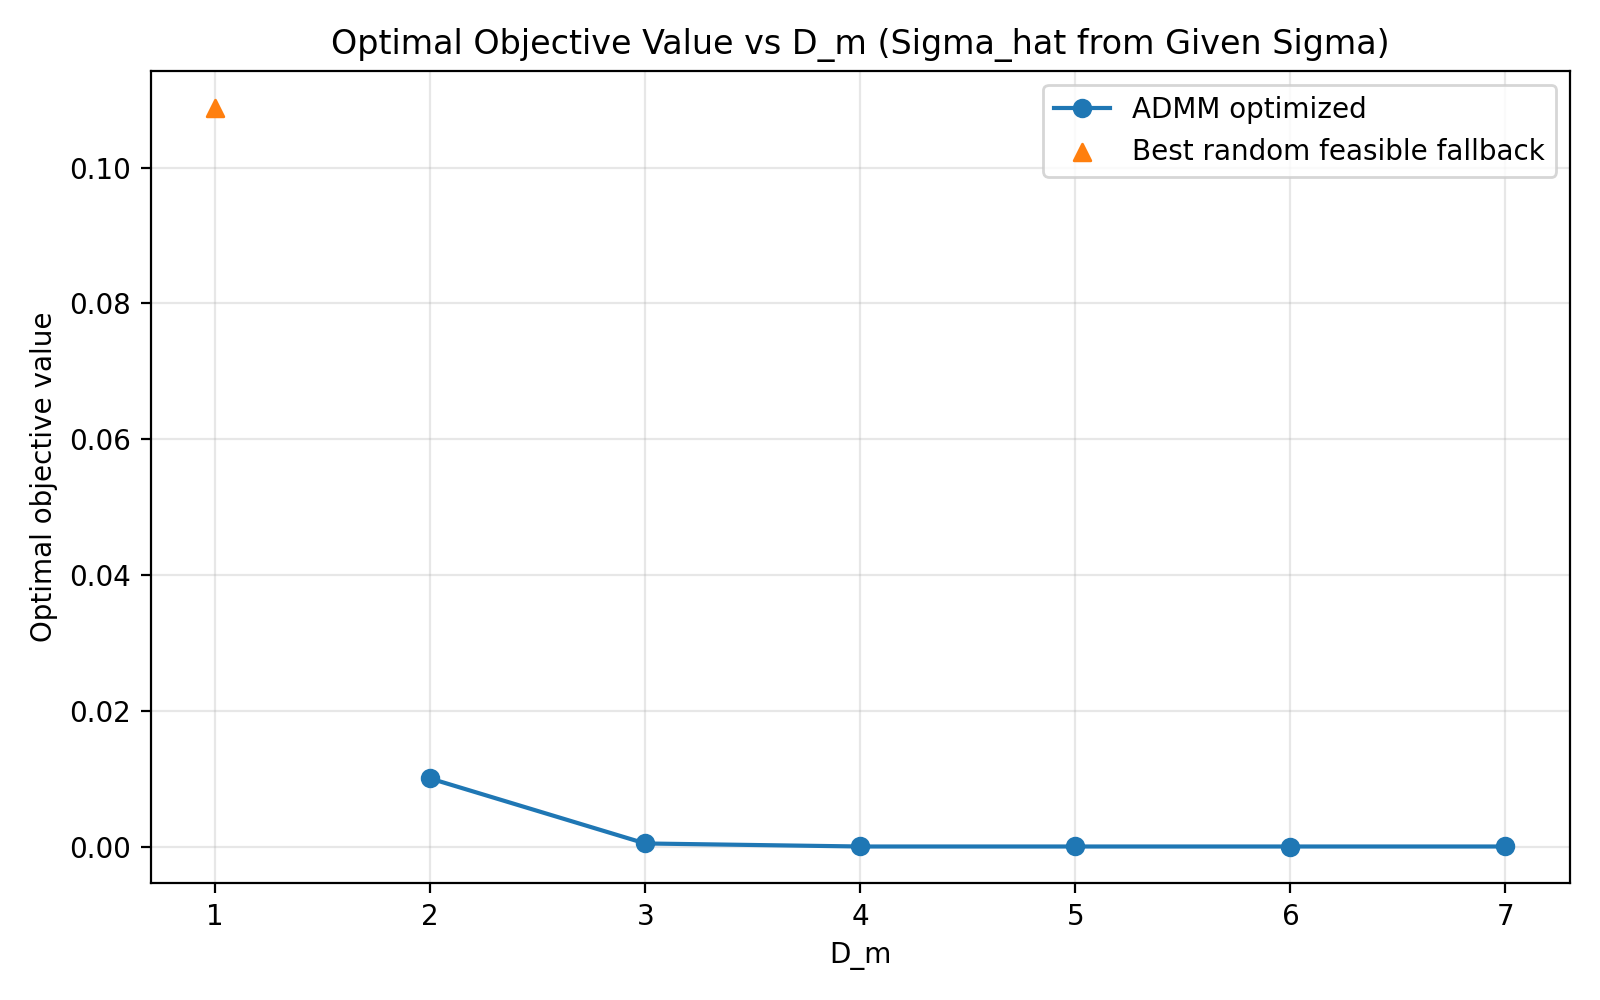
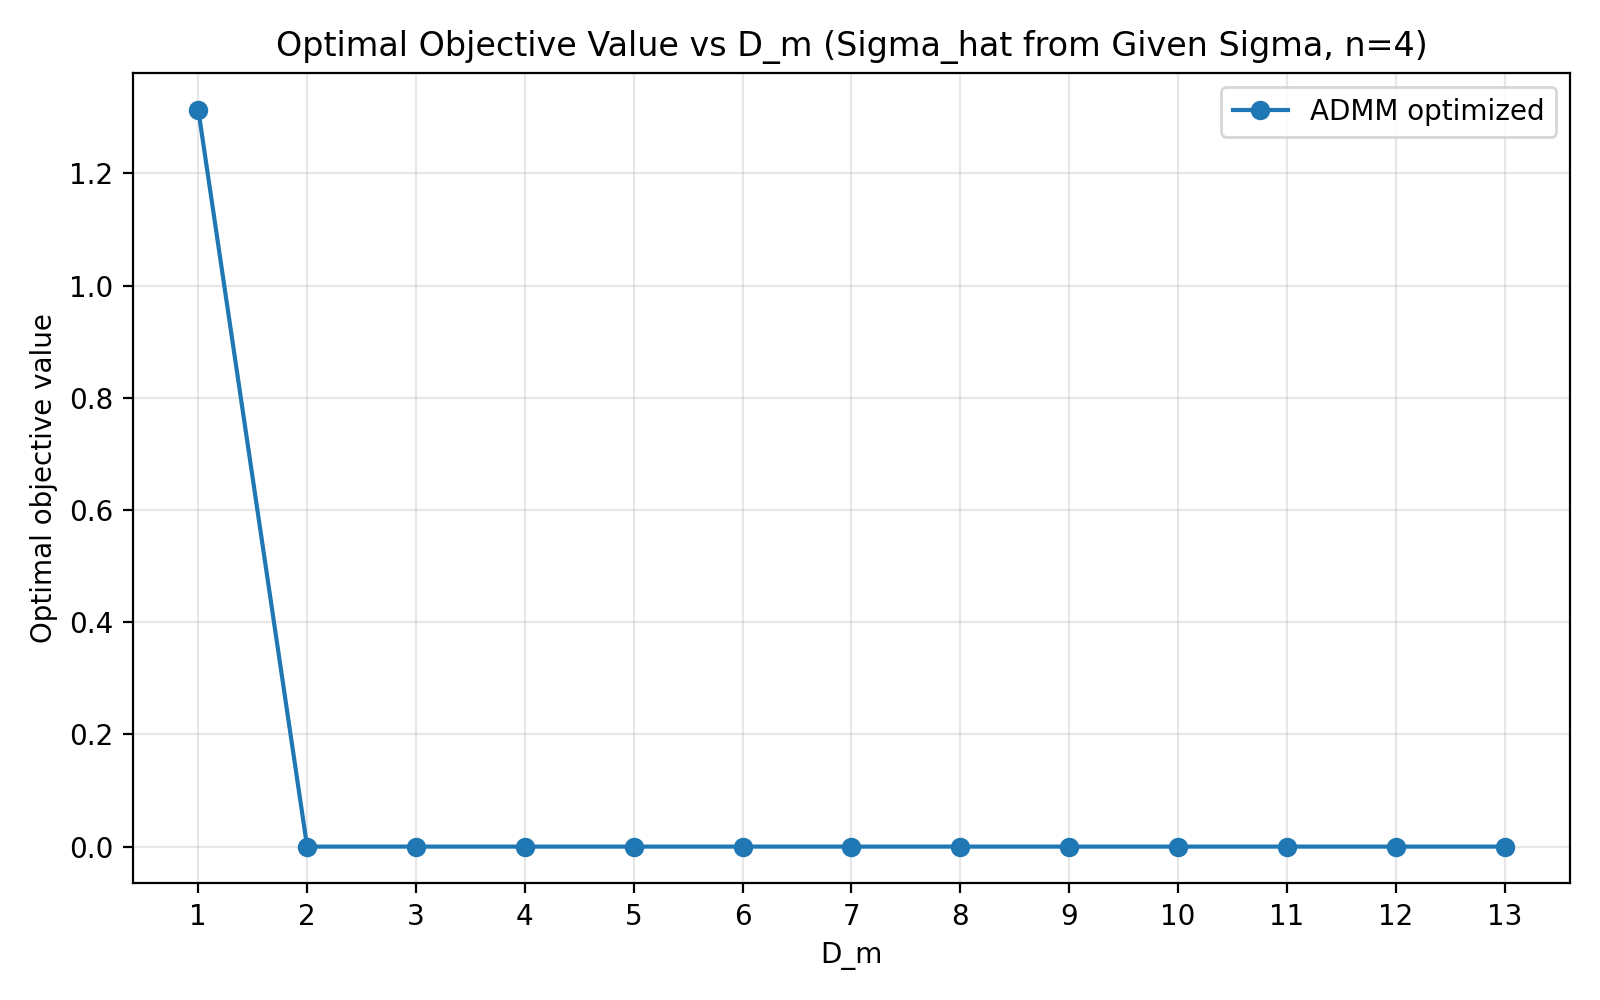
Dimension 4 added

diff --git a/plot_objective_vs_dm.py b/plot_objective_vs_dm.py
@@ -180,6 +180,35 @@ def penalty_values_for_d_m(d_m_values):
     return np.sqrt(d_m_values)
 
 
+def output_path_for_dimension(output_path, n, add_suffix):
+    if not add_suffix:
+        return output_path
+
+    stem, dot, extension = output_path.rpartition(".")
+    if not dot:
+        return f"{output_path}_n{n}"
+    return f"{stem}_n{n}.{extension}"
+
+
+def lambda_star_mask_for_dimension(n):
+    if n == 3:
+        return np.array([
+            [1, 1, 0],
+            [0, 1, 1],
+            [0, 0, 1],
+        ], dtype=bool)
+
+    if n == 4:
+        return np.array([
+            [1, 0, 0, 1],
+            [0, 1, 0, 1],
+            [0, 0, 1, 1],
+            [0, 0, 0, 1],
+        ], dtype=bool)
+
+    raise ValueError(f"No Lambda_star mask is defined for dimension {n}.")
+
+
 def plot_curve(
     x_values,
     y_values,
@@ -257,18 +286,19 @@ def parse_args():
         default=500,
         help="Number of random feasible candidates to try when ADMM fails for a D_m.",
     )
+    parser.add_argument(
+        "--lambda-star-dims",
+        type=int,
+        nargs="+",
+        default=[3, 4],
+        choices=[3, 4],
+        help="Dimensions of Lambda_star to test.",
+    )
     return parser.parse_args()
 
 
-if __name__ == "__main__":
-    args = parse_args()
-
-    n = 3
-    Lambda_star_mask = np.array([
-        [1, 0, 1],
-        [0, 1, 1],
-        [0, 0, 1],
-    ], dtype=bool)
+def run_experiment(args, n, add_output_suffix):
+    Lambda_star_mask = lambda_star_mask_for_dimension(n)
     Lambda_star = sample_lambda_star_from_mask(
         Lambda_star_mask,
         target_fro_norm=0.9,
@@ -282,6 +312,23 @@ if __name__ == "__main__":
 
     Sigma_given = covariance_from_lambda_star(Lambda_star, omega_star)
 
+    given_output = output_path_for_dimension(
+        args.given_output,
+        n,
+        add_output_suffix,
+    )
+    sigma_hat_output = output_path_for_dimension(
+        args.sigma_hat_output,
+        n,
+        add_output_suffix,
+    )
+    sigma_hat_penalty_output = output_path_for_dimension(
+        args.sigma_hat_penalty_output,
+        n,
+        add_output_suffix,
+    )
+
+    print(f"\n=== Lambda_star dimension n = {n} ===")
     print("Lambda_star:")
     print(Lambda_star)
     print(f"Frobenius norm of Lambda_star: {lambda_star_fro:.6f}")
@@ -305,14 +352,14 @@ if __name__ == "__main__":
         plot_curve(
             d_m_values,
             objective_values,
-            args.given_output,
-            title="Optimal Objective Value vs D_m (Given Sigma)",
+            given_output,
+            title=f"Optimal Objective Value vs D_m (Given Sigma, n={n})",
             xlabel="D_m",
             ylabel="Optimal objective value",
             fallback_x_values=fallback_d_m_values,
             fallback_y_values=fallback_objective_values,
         )
-        print(f"Saved given-Sigma plot to {args.given_output}")
+        print(f"Saved given-Sigma plot to {given_output}")
 
     Sigma_hat_given = sample_empirical_covariance(
         Sigma_given,
@@ -340,14 +387,14 @@ if __name__ == "__main__":
         plot_curve(
             d_m_values,
             objective_values,
-            args.sigma_hat_output,
-            title="Optimal Objective Value vs D_m (Sigma_hat from Given Sigma)",
-            xlabel = "D_m",
+            sigma_hat_output,
+            title=f"Optimal Objective Value vs D_m (Sigma_hat from Given Sigma, n={n})",
+            xlabel="D_m",
             ylabel="Optimal objective value",
             fallback_x_values=fallback_d_m_values,
             fallback_y_values=fallback_objective_values,
         )
-        print(f"Saved given-Sigma_hat plot to {args.sigma_hat_output}")
+        print(f"Saved given-Sigma_hat plot to {sigma_hat_output}")
 
     sigma_hat_penalties = penalty_values_for_d_m(d_m_values)
     sigma_hat_fallback_penalties = penalty_values_for_d_m(fallback_d_m_values)
@@ -355,12 +402,19 @@ if __name__ == "__main__":
     plot_curve(
         sigma_hat_penalties,
         objective_values,
-        args.sigma_hat_penalty_output,
-        title="Optimal Objective Value vs pen_n(m) (Sigma_hat from Given Sigma)",
+        sigma_hat_penalty_output,
+        title=f"Optimal Objective Value vs pen_n(m) (Sigma_hat from Given Sigma, n={n})",
         xlabel="pen_n(m)",
         ylabel="Optimal objective value",
         use_data_xticks=False,
         fallback_x_values=sigma_hat_fallback_penalties,
         fallback_y_values=fallback_objective_values,
     )
-    print(f"Saved Sigma_hat objective-vs-pen_n(m) plot to {args.sigma_hat_penalty_output}")
+    print(f"Saved Sigma_hat objective-vs-pen_n(m) plot to {sigma_hat_penalty_output}")
+
+
+if __name__ == "__main__":
+    args = parse_args()
+
+    for index, n in enumerate(args.lambda_star_dims):
+        run_experiment(args, n, add_output_suffix=index > 0)
